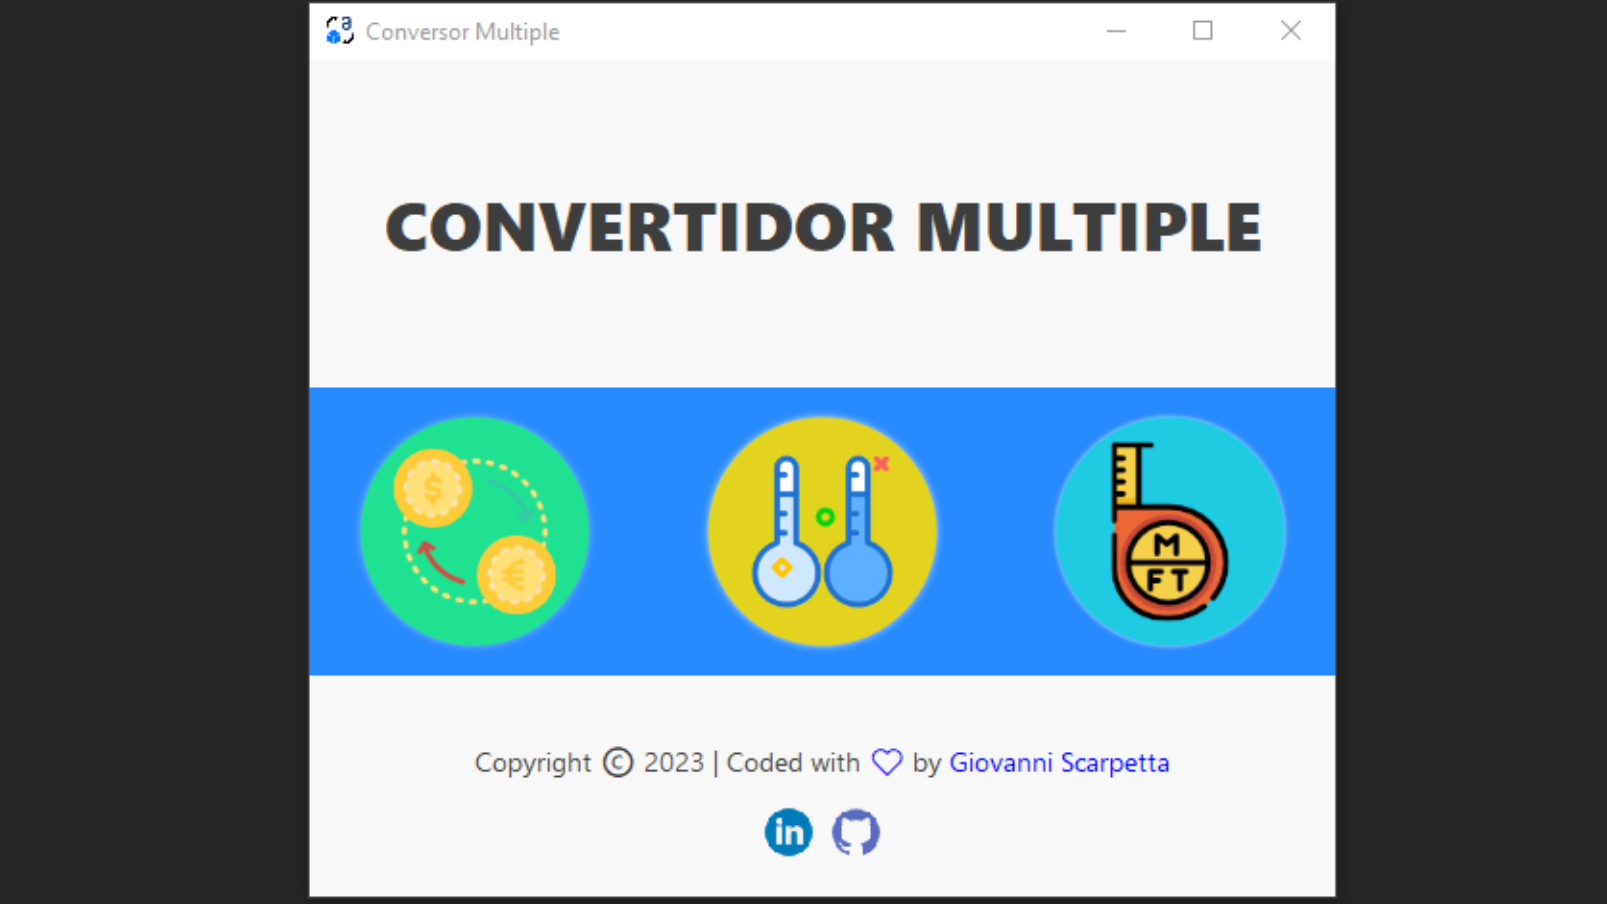
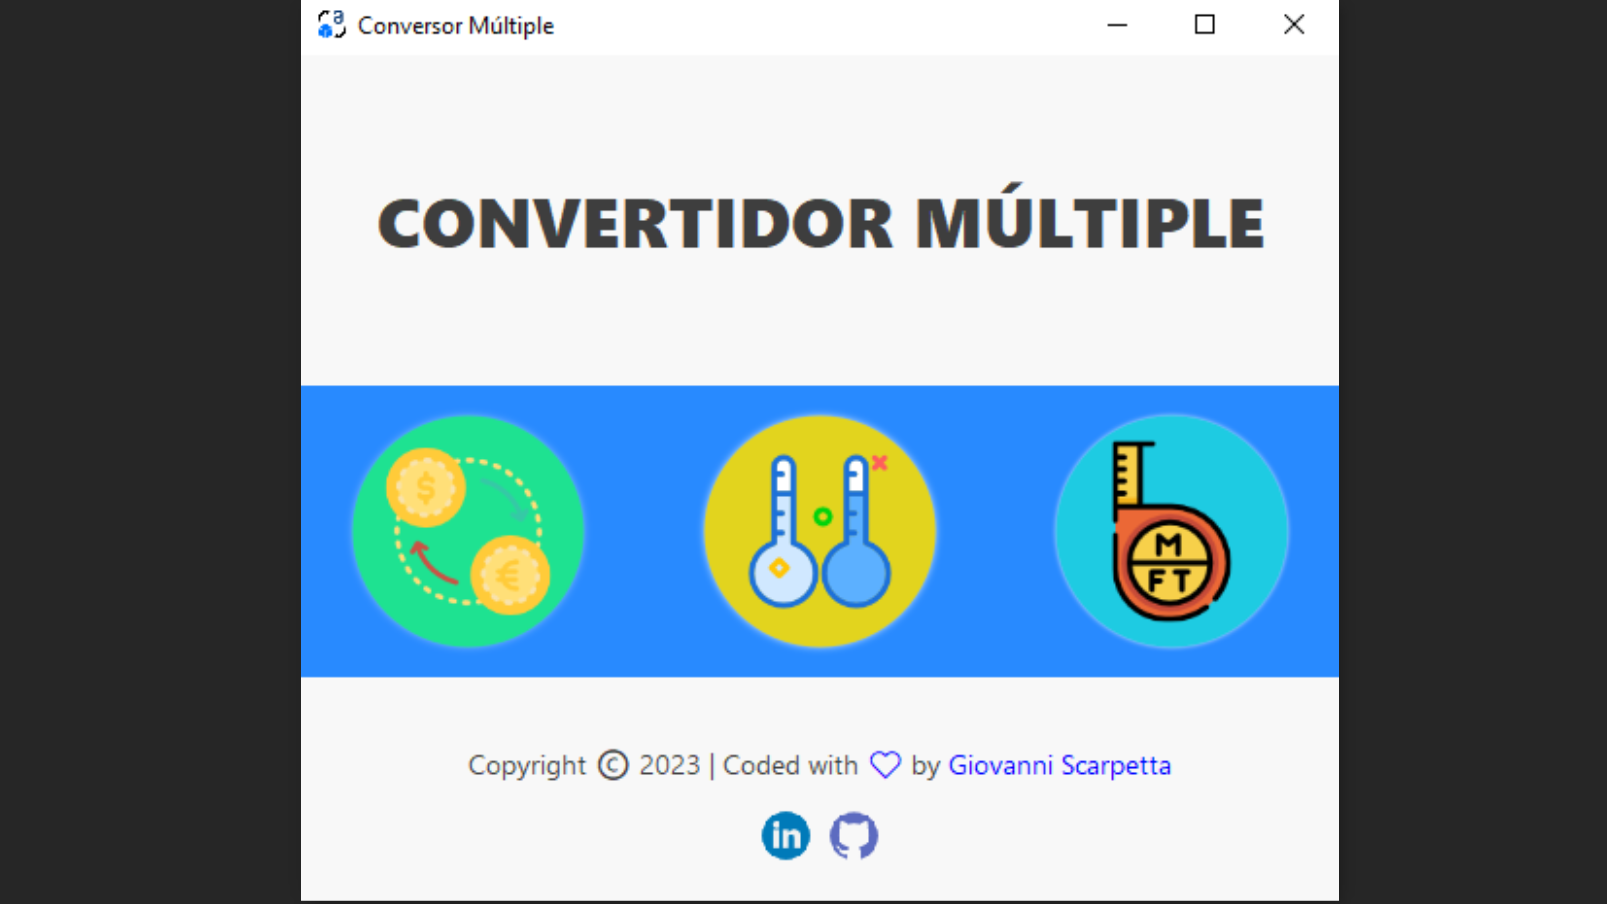
Actualizando Readme

diff --git a/convertidor_moneda/src/main/java/Gio_Challenge/Vista/MainMenu.java b/convertidor_moneda/src/main/java/Gio_Challenge/Vista/MainMenu.java
@@ -19,11 +19,11 @@ public class MainMenu extends JFrame{
     public MainMenu(){
         this.setLocationRelativeTo(null);
         setIconos();
-        setTitle("Conversor Multiple");
+        setTitle("Conversor Múltiple");
         setContentPane(MainPanel);
         setMinimumSize(new Dimension(550, 474));
         setLocationRelativeTo(this);
-        JLabelTitulo.setText("CONVERTIDOR MULTIPLE");
+        JLabelTitulo.setText("CONVERTIDOR MÚLTIPLE");
         JLabelFooter.setText("<html> Copyright © 2023 | Coded with <font color='blue'>❤</font> by <font color='blue'>Giovanni Scarpetta</font></html>");
         setVisible(true);
         setDefaultCloseOperation(JFrame.EXIT_ON_CLOSE);

diff --git a/convertidor_moneda/src/main/java/Gio_Challenge/Controladores/ControladorTemperatura/Temperatura.java b/convertidor_moneda/src/main/java/Gio_Challenge/Controladores/ControladorTemperatura/Temperatura.java
@@ -9,6 +9,10 @@ public class Temperatura {
     private String nombre;
     private ImageIcon icon;
 
+    public Temperatura(){
+
+    }
+
     public Temperatura(double temperatura, String simbolo, String nombre, ImageIcon icon) {
         this.temperatura = temperatura;
         this.simbolo = simbolo;

diff --git a/README.md b/README.md
@@ -1,2 +1,99 @@
-# convertidor_monedas
-Challenge Alura - Oracle
+# Convertidor Múltiple
+![](https://github.com/GioScarp/convertidor_monedas/blob/main/convertidor_moneda/resources/Readme_Recursos/Conversor_Multiple.png)
+
+Convertidor Múltiple es una aplicación que cuenta con dos convertidores: uno para monedas y otro para temperaturas. Con esta app podrás conocer el valor de una moneda en otra, de acuerdo con la tasa de cambio actual. Además, podrás convertir temperaturas a diferentes unidades de medida.
+
+Esta app es una solución al challenge "Convertidor de Moneda" propuesto por Alura Latam Oracle-One Next Education. 
+
+## Table of Contents
+
+- [Requisitos del Challenge](#requisitos-del-challenge)
+- [Extras](#extras)
+- [Demo](#demo)
+- [Características](#características)
+- [Pasos de instalación](#pasos-de-instalación)
+  - [JAR](#ejecutable-jar)
+  - [Intellij](#intellij-idea)
+- [Proceso](#proceso)
+- [License](#licencia)
+- [Autor](#autor)
+
+# Requisitos del Challenge
+
+       - Convertir de la moneda de tu país a Dólar
+       - Convertir de la moneda de tu país  a Euros
+       - Convertir de la moneda de tu país  a Libras Esterlinas
+       - Convertir de la moneda de tu país  a Yen Japonés
+       - Convertir de la moneda de tu país  a Won sul-coreano
+
+Recordando que también debe ser posible convertir inversamente.
+### Extras
+Como desafío extra te animamos a que dejes fluir tu creatividad, si puedo convertir divisas, ¿tal vez pueda añadir a mi programa otros tipos de conversiones?
+# Demo
+![](https://github.com/GioScarp/convertidor_monedas/blob/main/convertidor_moneda/resources/Readme_Recursos/Convertidor_Multiple.gif)
+
+# Características
+* Consumo de Appi's [Exchange Rate Data API](https://apilayer.com/marketplace/exchangerates_data-api) 
+* Tasa de cambio actual de las diferentes monedas disponibles
+* Interfaz gráfica agradable e intuitiva
+* Validaciones a los datos ingresados por parte del usuario
+* Texto informativos a medida de que el usuario interactua con la app
+# Pasos de instalación
+### Ejecutable JAR
+1. Descargue el release del proyecto o directamente de [aquí]()
+2. Descomprima el archivo zip
+3. Ejecute el archivo extraido Jar Conversor_Moneda.jar y disfrute
+### Intellij IDEA
+1. Clonar el repositorio
+2. Abir proyecto en Intellij
+3. Run main y disfrutar
+
+# Proceso
+### Tecnologías usadas
+* Java 17
+* GitHub
+* Photoshop
+### Estructura del proyecto
+* Resources
+* src
+    * Config
+        * Properties
+    * Controladores
+        * Controlador Moneda
+        * Controlador Temperatura
+    * Vistas
+        * Vista Moneda
+        * Vista Temperatura
+        * Vista Main
+#### Clase Moneda
+    public class Moneda {
+        private String nombre;
+        private String simbolo;
+        private ImageIcon icono;
+
+        public Moneda(){
+        }
+    }
+#### Clase Temperatura
+
+    public class Temperatura {
+        private double temperatura;
+        private String simbolo;
+        private String nombre;
+        private ImageIcon icon;
+    
+        public Temperatura(){
+
+        }
+    }
+
+### Validaciones
+* Solo son válidos números enteros o decimales
+* Para el convertidor de moneda no se aceptan valores negativos o valor 0
+* Para poder convertir se debe seleccionar las monedas correspondientes o la temperatura principal
+    
+# Licencia
+Este proyecto está licenciado bajo la Licencia MIT
+# Autor
+Creado con 💙 por Giovanni Scarpetta
+

diff --git a/LICENSE.md b/LICENSE.md
@@ -1,0 +1,21 @@
+MIT License
+
+Copyright (c) 2023 Giovanni Scarpetta
+
+Permission is hereby granted, free of charge, to any person obtaining a copy
+of this software and associated documentation files (the "Software"), to deal
+in the Software without restriction, including without limitation the rights
+to use, copy, modify, merge, publish, distribute, sublicense, and/or sell
+copies of the Software, and to permit persons to whom the Software is
+furnished to do so, subject to the following conditions:
+
+The above copyright notice and this permission notice shall be included in all
+copies or substantial portions of the Software.
+
+THE SOFTWARE IS PROVIDED "AS IS", WITHOUT WARRANTY OF ANY KIND, EXPRESS OR
+IMPLIED, INCLUDING BUT NOT LIMITED TO THE WARRANTIES OF MERCHANTABILITY,
+FITNESS FOR A PARTICULAR PURPOSE AND NONINFRINGEMENT. IN NO EVENT SHALL THE
+AUTHORS OR COPYRIGHT HOLDERS BE LIABLE FOR ANY CLAIM, DAMAGES OR OTHER
+LIABILITY, WHETHER IN AN ACTION OF CONTRACT, TORT OR OTHERWISE, ARISING FROM,
+OUT OF OR IN CONNECTION WITH THE SOFTWARE OR THE USE OR OTHER DEALINGS IN THE
+SOFTWARE.
